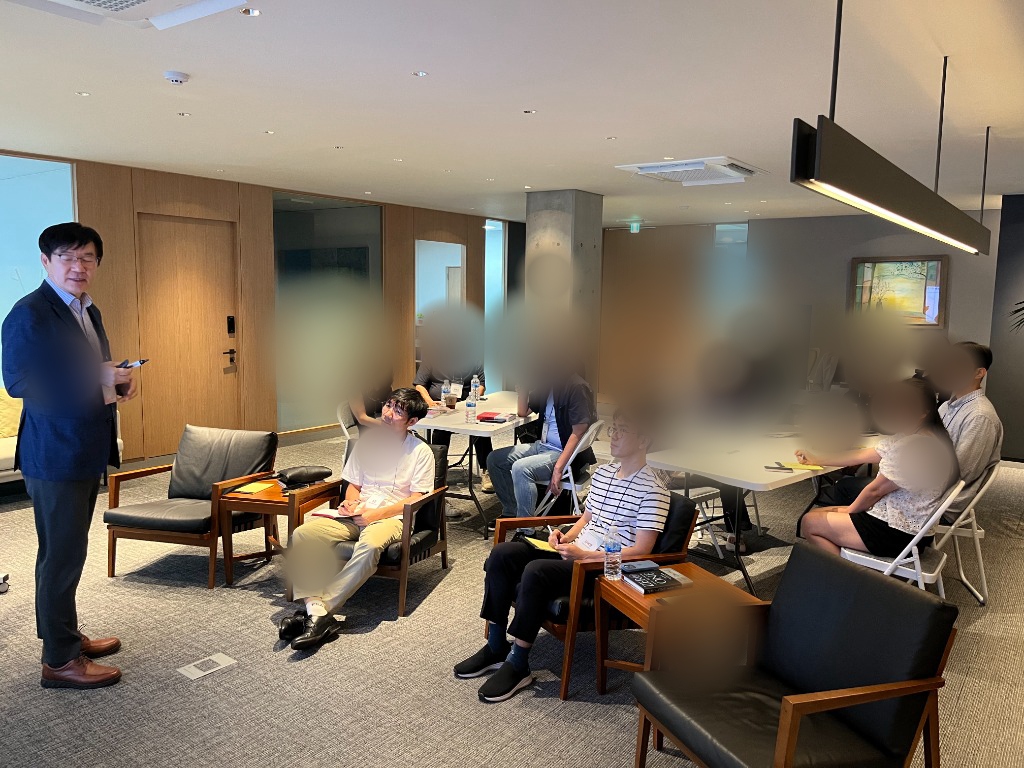
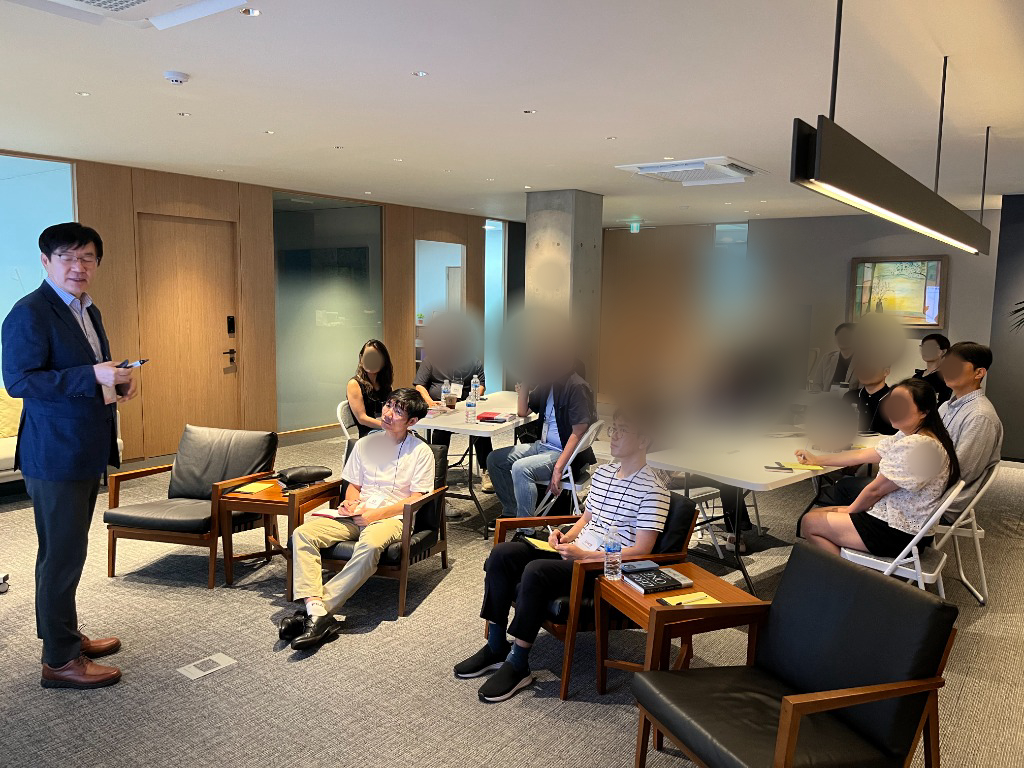
fix(academy): adjust photo 2 blur to exclude 11, 12, 17 and keep 13, 14 blurred

diff --git a/scratch/censor_activity_images.js b/scratch/censor_activity_images.js
@@ -38,26 +38,8 @@ const imageTargets = [
     mentors: [
       { rx: 0.063, ry: 0.33, radius: 0.04 }  // 이상하 회장님 (좌측 서 계신 분)
     ],
-    manualFaces: [
-      { rx: 0.363, ry: 0.469, radius: 0.03 }, // Face 0
-      { rx: 0.846, ry: 0.481, radius: 0.035 }, // Face 1
-      { rx: 0.735, ry: 0.432, radius: 0.03 }, // Face 2
-      { rx: 0.875, ry: 0.530, radius: 0.04 }, // Face 3
-      { rx: 0.706, ry: 0.478, radius: 0.03 }, // Face 4
-      { rx: 0.907, ry: 0.454, radius: 0.03 }, // Face 5
-      { rx: 0.929, ry: 0.479, radius: 0.035 }, // Face 6
-      { rx: 0.824, ry: 0.439, radius: 0.03 }, // Face 8
-      { rx: 0.440, ry: 0.443, radius: 0.045 }, // Face 9
-      { rx: 0.857, ry: 0.443, radius: 0.045 }, // Face 10
-      { rx: 0.686, ry: 0.828, radius: 0.065 }, // Face 11 (앞쪽 앉아있는 사람)
-      { rx: 0.304, ry: 0.736, radius: 0.04 }, // Face 12 (앞쪽 앉아있는 사람 2)
-      { rx: 0.370, ry: 0.585, radius: 0.035 }, // Face 13
-      { rx: 0.812, ry: 0.551, radius: 0.045 }, // Face 15
-      { rx: 0.903, ry: 0.601, radius: 0.04 }, // Face 16
-      { rx: 0.324, ry: 0.451, radius: 0.08 }, // Face 17 (좌측에 앉아있는 사람)
-      { rx: 0.524, ry: 0.449, radius: 0.065 }, // Face 18 (중앙 뒤쪽 사람)
-      { rx: 0.536, ry: 0.359, radius: 0.035 } // Face 19 (중앙 앉아있는 사람)
-    ]
+    ignoreDetectionIds: [7, 11, 12, 17, 20], // 7, 20은 이상하 회장님 / 11, 12, 17은 얼굴이 아니거나 블러 해제 요청된 번호
+    manualFaces: []
   },
   {
     fileName: 'media__1782039657482.jpg', // 세미나실 최규복 강연
@@ -284,9 +266,16 @@ async function runCensor() {
       const finalFacesToBlur = [];
 
 
-      for (const det of detections) {
+      for (let i = 0; i < detections.length; i++) {
+        const det = detections[i];
         const [r, c, s, q] = det; // r=y, c=x, s=size, q=score
         if (q < qThreshold) continue;
+
+        // 사용자가 명시적으로 블러 제외를 요청한 감지 ID 목록 처리
+        if (target.ignoreDetectionIds && target.ignoreDetectionIds.includes(i)) {
+          console.log(`  [IGNORE ID] Ignored face at index ${i} (${Math.round(c)}, ${Math.round(r)}) by user request.`);
+          continue;
+        }
 
         // 멘토 대표님 얼굴 좌표와 겹치는지 체크
         if (isMentorOverlap(c, r, s, target.mentors, w, h)) {
